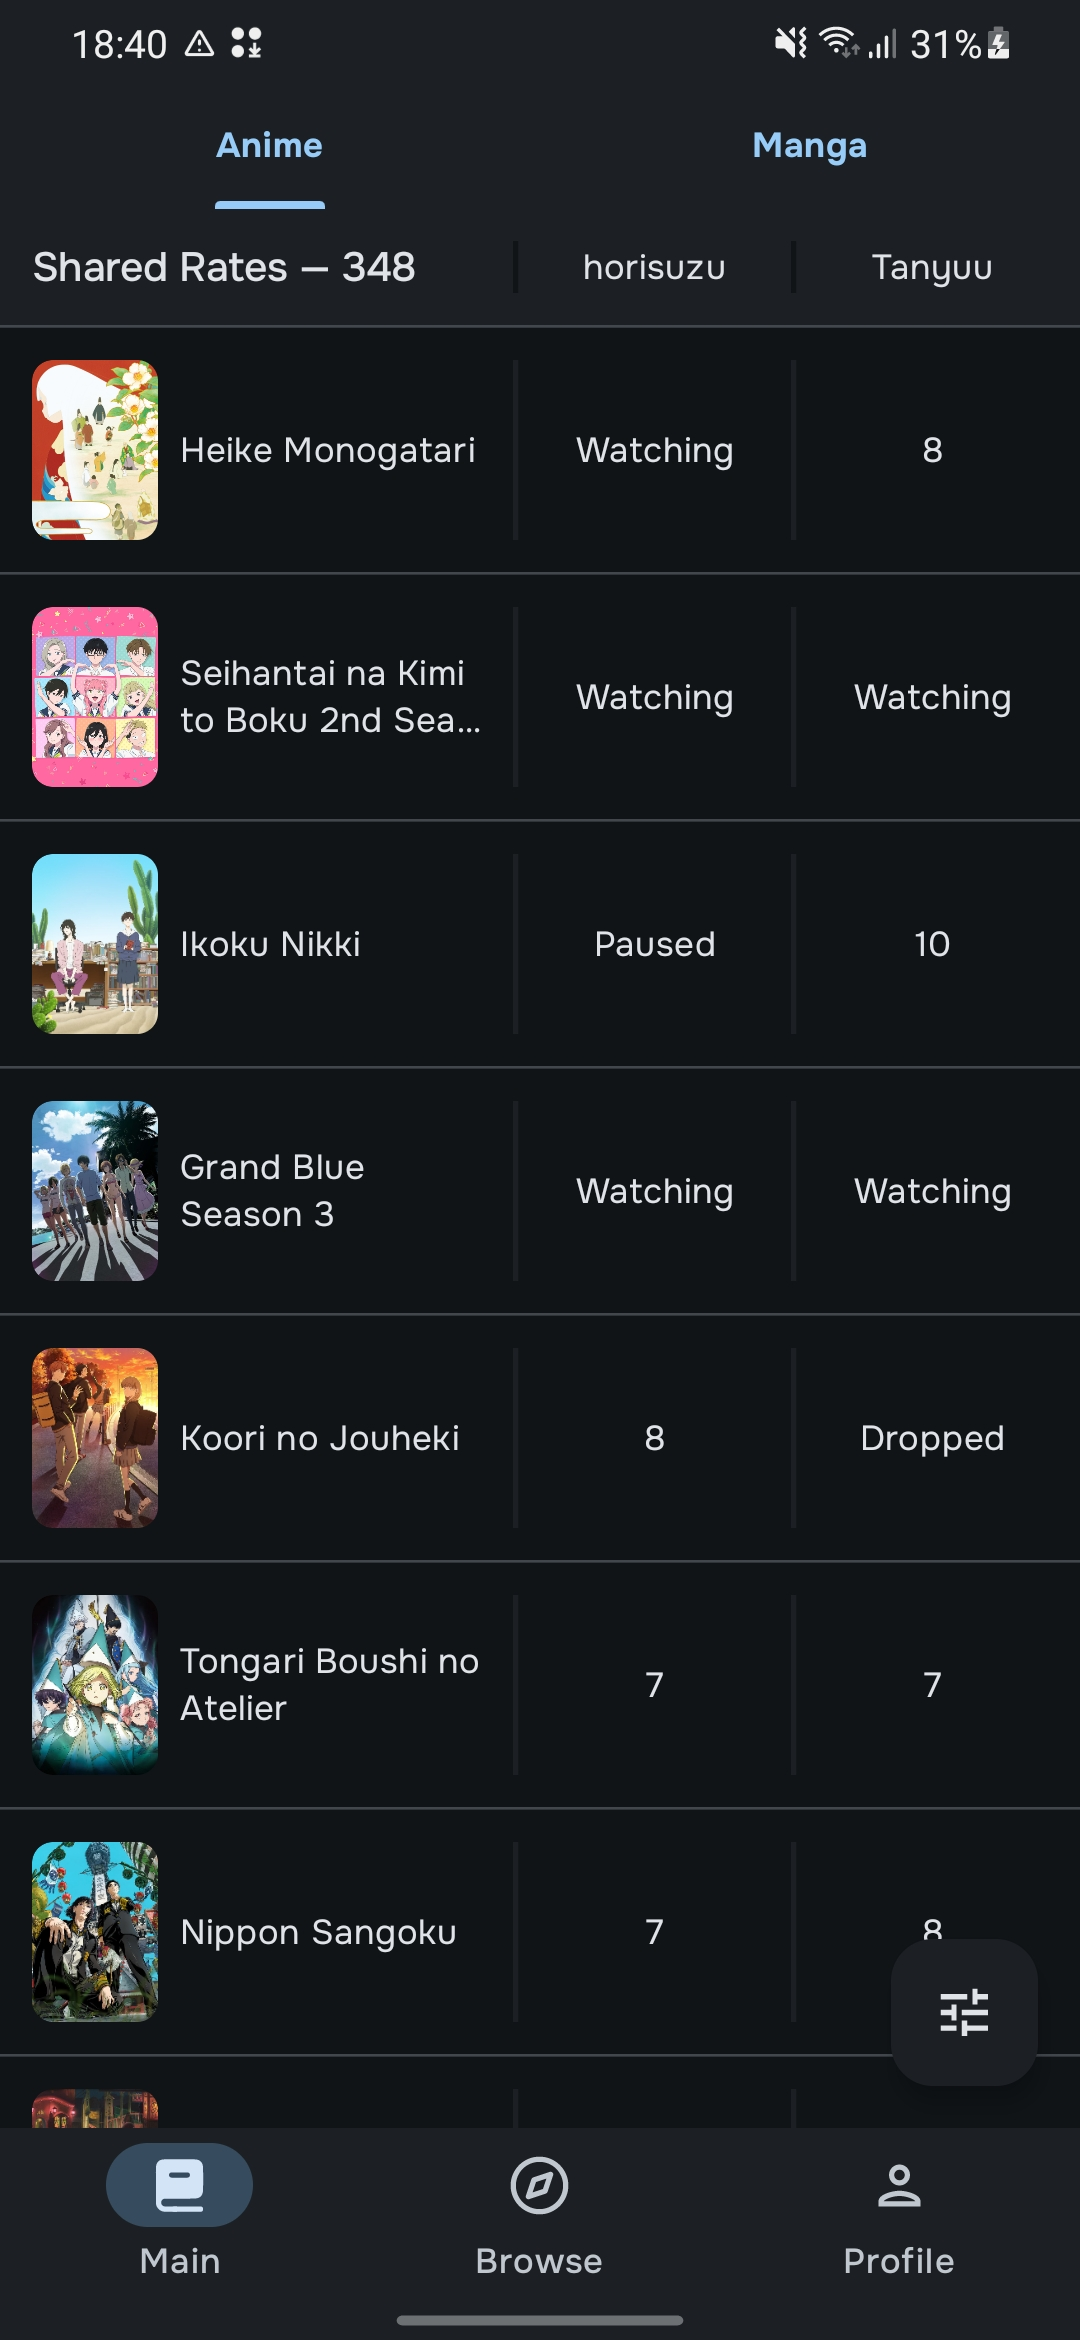
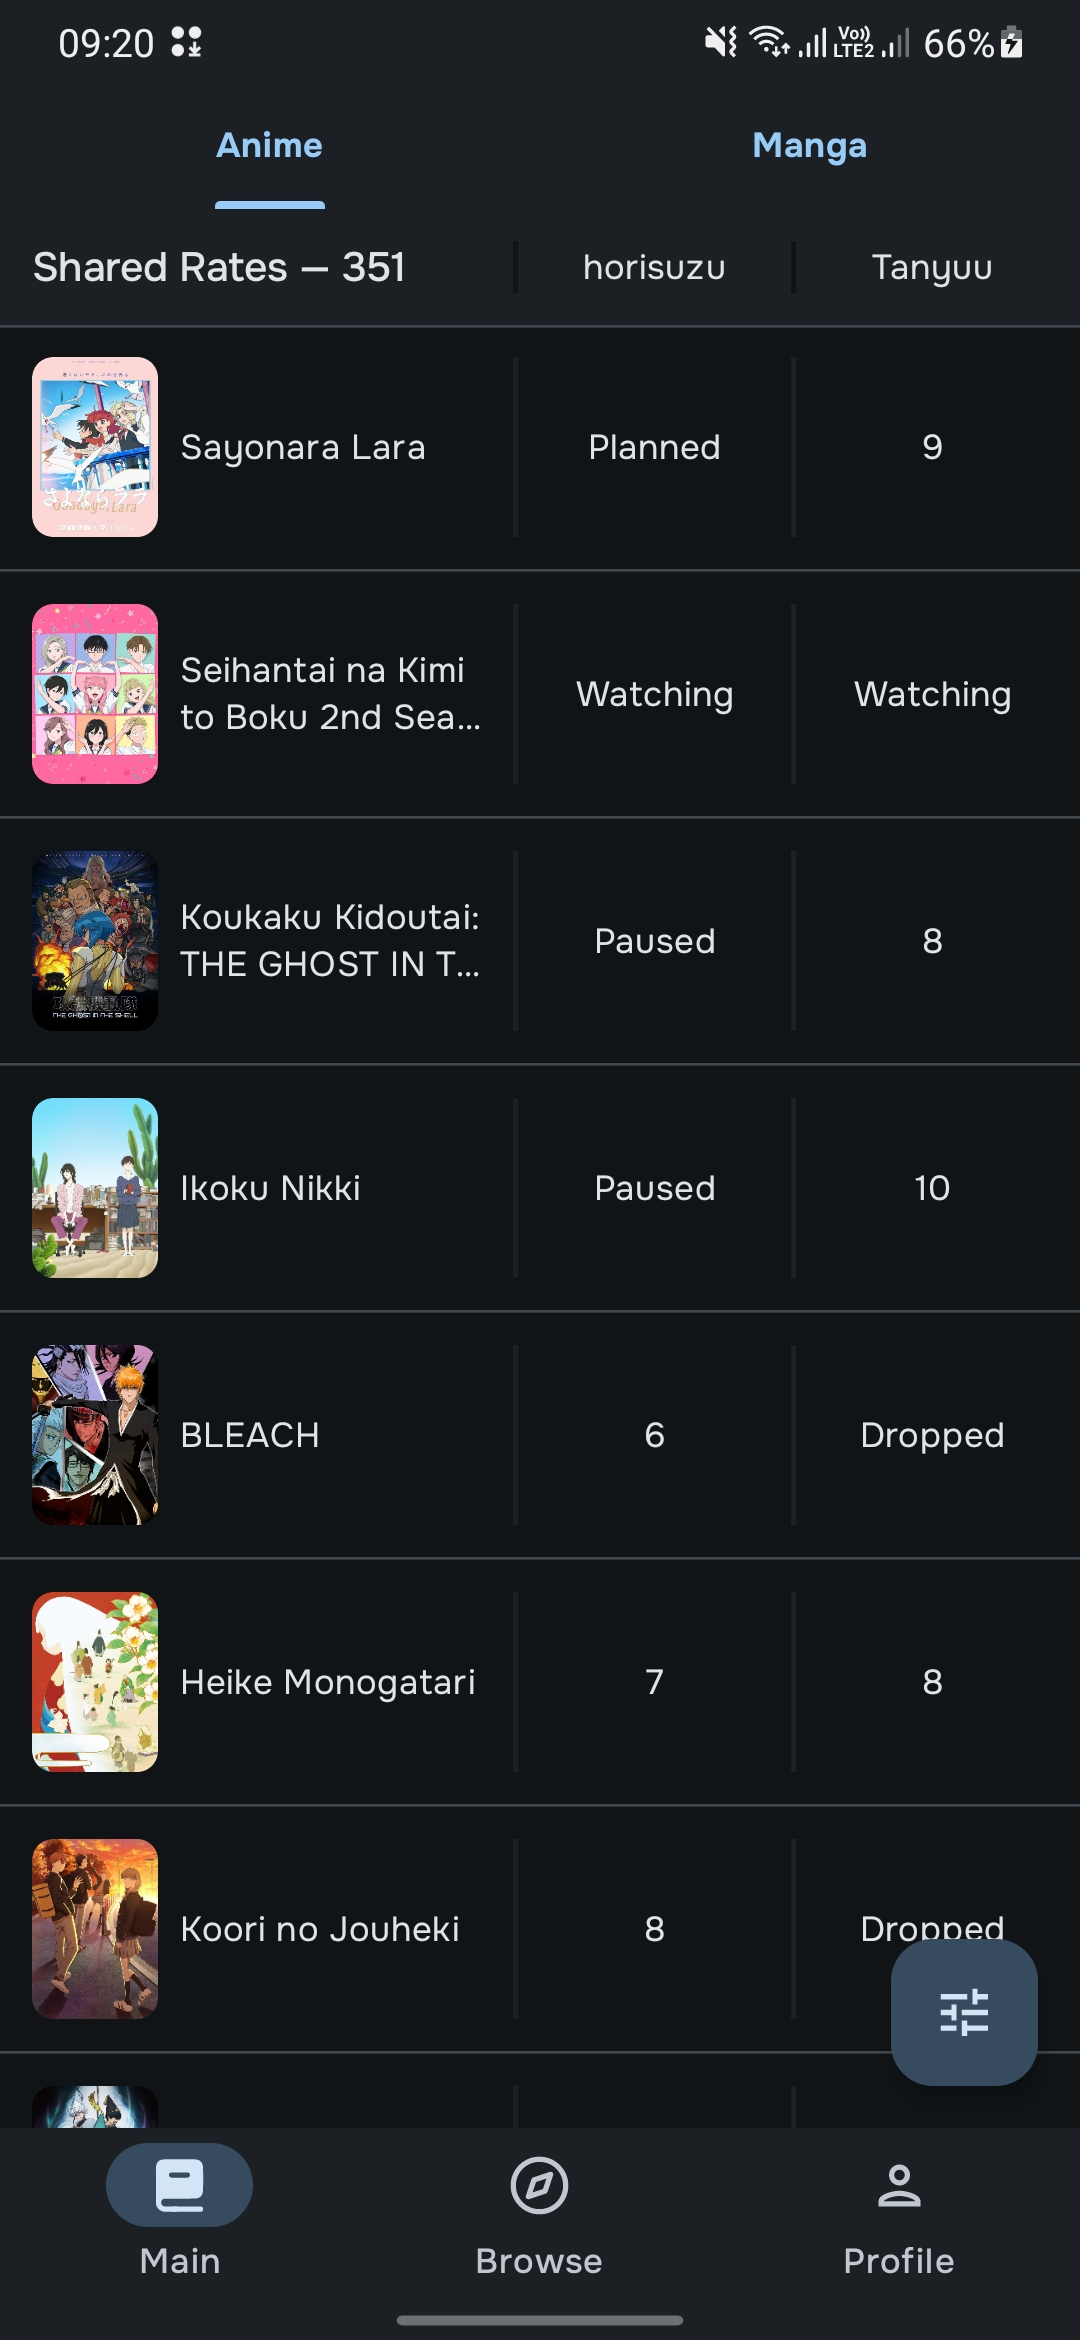
feat (media details): video/trailer section
- added video/trailer section in AnimeDetailsScreen
- airing notification handler adjustments

diff --git a/app/src/main/java/com/example/shikiflow/presentation/screen/main/details/anime/video/VideoSection.kt b/app/src/main/java/com/example/shikiflow/presentation/screen/main/details/anime/video/VideoSection.kt
@@ -1,0 +1,95 @@
+package com.example.shikiflow.presentation.screen.main.details.anime.video
+
+import androidx.compose.animation.animateContentSize
+import androidx.compose.foundation.clickable
+import androidx.compose.foundation.layout.Arrangement
+import androidx.compose.foundation.layout.Column
+import androidx.compose.foundation.layout.PaddingValues
+import androidx.compose.foundation.layout.fillMaxWidth
+import androidx.compose.foundation.layout.padding
+import androidx.compose.foundation.layout.width
+import androidx.compose.foundation.lazy.items
+import androidx.compose.foundation.shape.RoundedCornerShape
+import androidx.compose.material3.MaterialTheme
+import androidx.compose.material3.Text
+import androidx.compose.runtime.Composable
+import androidx.compose.ui.Modifier
+import androidx.compose.ui.draw.clip
+import androidx.compose.ui.res.stringResource
+import androidx.compose.ui.text.style.TextOverflow
+import androidx.compose.ui.unit.Dp
+import androidx.compose.ui.unit.dp
+import com.example.shikiflow.R
+import com.example.shikiflow.domain.model.media_details.VideoShort
+import com.example.shikiflow.presentation.common.SnapFlingLazyRow
+import com.example.shikiflow.presentation.common.TextWithDivider
+import com.example.shikiflow.presentation.common.ignoreHorizontalParentPadding
+import com.example.shikiflow.presentation.common.image.BaseImage
+import com.example.shikiflow.presentation.common.image.ImageType
+
+@Composable
+fun VideoSection(
+    videos: List<VideoShort>,
+    onVideoClick: (String) -> Unit,
+    horizontalPadding: Dp,
+    modifier: Modifier = Modifier
+) {
+    Column(
+        modifier = modifier,
+        verticalArrangement = Arrangement.spacedBy(8.dp)
+    ) {
+        TextWithDivider(
+            text = stringResource(R.string.anime_details_video)
+        )
+
+        SnapFlingLazyRow(
+            modifier = Modifier
+                .ignoreHorizontalParentPadding(horizontalPadding)
+                .fillMaxWidth()
+                .animateContentSize(),
+            horizontalArrangement = Arrangement.spacedBy(12.dp),
+            contentPadding = PaddingValues(horizontal = horizontalPadding)
+        ) {
+            items(videos) { video ->
+                VideoItem(
+                    title = video.title,
+                    thumbnailUrl = video.thumbnailUrl,
+                    onVideoClick = { onVideoClick(video.url) }
+                )
+            }
+        }
+    }
+}
+
+@Composable
+private fun VideoItem(
+    title: String?,
+    thumbnailUrl: String,
+    onVideoClick: () -> Unit,
+    modifier: Modifier = Modifier
+) {
+    val imageType = ImageType.Screenshot(shape = RoundedCornerShape(16.dp))
+
+    Column(
+        modifier = modifier
+            .clip(imageType.shape)
+            .clickable { onVideoClick() }
+    ) {
+        BaseImage(
+            model = thumbnailUrl,
+            imageType = imageType
+        )
+
+        title?.let {
+            Text(
+                text = title,
+                style = MaterialTheme.typography.bodySmall,
+                maxLines = 2,
+                overflow = TextOverflow.Ellipsis,
+                modifier = Modifier
+                    .width(imageType.width)
+                    .padding(horizontal = 6.dp, vertical = 4.dp)
+            )
+        }
+    }
+}

diff --git a/app/src/main/java/com/example/shikiflow/presentation/screen/main/details/anime/AnimeDetailsContent.kt b/app/src/main/java/com/example/shikiflow/presentation/screen/main/details/anime/AnimeDetailsContent.kt
@@ -30,6 +30,7 @@ import androidx.compose.runtime.setValue
 import androidx.compose.ui.Alignment
 import androidx.compose.ui.Modifier
 import androidx.compose.ui.draw.clip
+import androidx.compose.ui.platform.LocalContext
 import androidx.compose.ui.res.stringResource
 import androidx.compose.ui.unit.dp
 import com.example.shikiflow.R
@@ -66,7 +67,9 @@ import com.example.shikiflow.presentation.common.ignoreHorizontalParentPadding
 import com.example.shikiflow.presentation.common.image.ImageType
 import com.example.shikiflow.presentation.common.mappers.GenreMapper.displayValue
 import com.example.shikiflow.presentation.screen.main.LocalTitleTypeController
+import com.example.shikiflow.presentation.screen.main.details.anime.video.VideoSection
 import com.example.shikiflow.presentation.screen.main.details.common.MediaTagItem
+import com.example.shikiflow.utils.WebIntent
 
 @Composable
 fun AnimeDetailsContent(
@@ -92,6 +95,7 @@ fun AnimeDetailsContent(
 
     val horizontalPadding = 12.dp
     val titleType = LocalTitleTypeController.current
+    val context = LocalContext.current
 
     LazyColumn(
         modifier = modifier,
@@ -187,6 +191,7 @@ fun AnimeDetailsContent(
                 }
             }
         }
+
         if(animeDetails.characters.entries.isNotEmpty()) {
             item {
                 val clipPercent = 16
@@ -290,6 +295,19 @@ fun AnimeDetailsContent(
                     selectedIndex = selectedScreenshotIndex,
                     onScreenshotClick = onScreenshotClick,
                     sharedTransitionScope = sharedTransitionScope,
+                    modifier = Modifier.fillMaxWidth()
+                )
+            }
+        }
+
+        if (animeDetails.videos.isNotEmpty()) {
+            item {
+                VideoSection(
+                    videos = animeDetails.videos,
+                    onVideoClick = { url ->
+                        WebIntent.openUrlCustomTab(context, url)
+                    },
+                    horizontalPadding = horizontalPadding,
                     modifier = Modifier.fillMaxWidth()
                 )
             }

diff --git a/app/src/main/java/com/example/shikiflow/data/mapper/shikimori/ShikimoriMediaMapper.kt b/app/src/main/java/com/example/shikiflow/data/mapper/shikimori/ShikimoriMediaMapper.kt
@@ -7,6 +7,7 @@ import com.example.graphql.shikimori.MangaDetailsQuery
 import com.example.graphql.shikimori.type.AnimeKindEnum
 import com.example.graphql.shikimori.type.GenreKindEnum
 import com.example.graphql.shikimori.type.MangaKindEnum
+import com.example.graphql.shikimori.type.VideoKindEnum
 import com.example.shikiflow.BuildConfig
 import com.example.shikiflow.data.datasource.dto.ShikiAnime
 import com.example.shikiflow.data.datasource.dto.ShikiManga
@@ -21,6 +22,7 @@ import com.example.shikiflow.data.mapper.common.RatingMapper.toDomain
 import com.example.shikiflow.data.mapper.common.RelatedMediaMapper.toDomain
 import com.example.shikiflow.data.mapper.common.StudioMapper.toStudioShort
 import com.example.shikiflow.data.mapper.common.TagMapper
+import com.example.shikiflow.data.mapper.common.VideoMapper.toDomainVideo
 import com.example.shikiflow.data.mapper.shikimori.ShikimoriCharacterMapper.toDomain
 import com.example.shikiflow.data.mapper.shikimori.ShikimoriStaffMapper.sortByRole
 import com.example.shikiflow.data.mapper.shikimori.ShikimoriStaffMapper.toDomain
@@ -83,6 +85,13 @@ object ShikimoriMediaMapper {
             nextEpisodeAt = nextEpisodeAt?.let { Instant.parse(it.toString()) },
             origin = origin?.toDomain() ?: MediaOrigin.UNKNOWN,
             screenshots = screenshots.map { it.originalUrl },
+            videos = videos
+                .map { it.videoShort }
+                .filter { it.kind != VideoKindEnum.episode_preview }
+                .sortedBy { it.id }
+                .map { videoShort ->
+                    videoShort.toDomainVideo()
+                },
             studios = studios.map { it.toStudioShort() },
             staffList = personRoles?.map { it.personRoleShort.toDomain() }
                 ?.sortByRole() ?: emptyList(),

diff --git a/app/src/main/java/com/example/shikiflow/data/mapper/common/VideoMapper.kt b/app/src/main/java/com/example/shikiflow/data/mapper/common/VideoMapper.kt
@@ -1,0 +1,33 @@
+package com.example.shikiflow.data.mapper.common
+
+import com.example.graphql.anilist.fragment.ALVideoShort
+import com.example.shikiflow.domain.model.media_details.VideoShort as DomainVideo
+import com.example.graphql.shikimori.fragment.VideoShort
+
+object VideoMapper {
+    private const val YOUTUBE_VIDEO_URL = "https://www.youtube.com/watch?v="
+    private const val DAILY_MOTION_VIDEO_URL = "https://www.dailymotion.com/video/"
+
+    fun VideoShort.toDomainVideo(): DomainVideo {
+        return DomainVideo(
+            title = name,
+            url = url,
+            thumbnailUrl = if (!imageUrl.startsWith("https:")) "https:$imageUrl"
+                else imageUrl
+        )
+    }
+
+    fun ALVideoShort.toDomainVideo(): DomainVideo {
+        return DomainVideo(
+            title = null,
+            url = buildString {
+                when (site) {
+                    "youtube" -> append(YOUTUBE_VIDEO_URL)
+                    "dailymotion" -> append(DAILY_MOTION_VIDEO_URL)
+                }
+                append(id)
+            },
+            thumbnailUrl = thumbnail ?: ""
+        )
+    }
+}

diff --git a/app/src/main/java/com/example/shikiflow/presentation/screen/more/profile/ProfileAppBar.kt b/app/src/main/java/com/example/shikiflow/presentation/screen/more/profile/ProfileAppBar.kt
@@ -128,7 +128,7 @@ fun ProfileAppBar(
                             horizontalArrangement = Arrangement.spacedBy(4.dp, Alignment.End)
                         ) {
                             IconButton(
-                                shape = RoundedCornerShape(percent = 24),
+                                shape = RoundedCornerShape(percent = 32),
                                 onClick = { navOptions.navigateToSettings() },
                                 colors = IconButtonDefaults.iconButtonColors(
                                     containerColor = backgroundColor.copy(alpha = 0.35f)
@@ -141,7 +141,7 @@ fun ProfileAppBar(
                             }
 
                             IconButton(
-                                shape = RoundedCornerShape(percent = 24),
+                                shape = RoundedCornerShape(percent = 32),
                                 onClick = { navOptions.navigateToAbout() },
                                 colors = IconButtonDefaults.iconButtonColors(
                                     containerColor = backgroundColor.copy(alpha = 0.35f)

diff --git a/app/src/main/java/com/example/shikiflow/data/mapper/anilist/AnilistMediaMapper.kt b/app/src/main/java/com/example/shikiflow/data/mapper/anilist/AnilistMediaMapper.kt
@@ -21,6 +21,7 @@ import com.example.shikiflow.data.mapper.common.RelatedMediaMapper.toDomain
 import com.example.shikiflow.data.mapper.common.ScoreFormatMapper.toDomainFormat
 import com.example.shikiflow.data.mapper.common.StudioMapper.toStudioShort
 import com.example.shikiflow.data.mapper.common.TagMapper
+import com.example.shikiflow.data.mapper.common.VideoMapper.toDomainVideo
 import com.example.shikiflow.domain.model.anime.AiringAnime
 import com.example.shikiflow.domain.model.anime.AiringAnimeDataShort
 import com.example.shikiflow.domain.model.browse.BrowseMedia
@@ -83,6 +84,7 @@ object AnilistMediaMapper {
                 Instant.fromEpochSeconds(it.aLAiringEpisodeShort.airingAt.toLong())
             },
             origin = source?.toDomain() ?: MediaOrigin.UNKNOWN,
+            videos = listOfNotNull(trailer?.aLVideoShort?.toDomainVideo()),
             studios = studios?.nodes?.mapNotNull { it?.aLStudioShort?.toStudioShort() } ?: emptyList(),
             staffList = staff?.edges?.mapNotNull { staffEdge ->
                 staffEdge?.aLStaffEdgeShort?.toDomain()

diff --git a/app/src/main/java/com/example/shikiflow/presentation/screen/more/settings/SettingsSection.kt b/app/src/main/java/com/example/shikiflow/presentation/screen/more/settings/SettingsSection.kt
@@ -141,6 +141,7 @@ fun SettingsSection(
                             value = item.value,
                             trackRange = item.trackRange,
                             onChange = item.onChange,
+                            onChangeFinished = item.onChangeFinished,
                             modifier = itemModifier
                         )
                     }
@@ -324,6 +325,7 @@ private fun SliderItem(
     value: Float,
     trackRange: ClosedFloatingPointRange<Float>,
     onChange: (Float) -> Unit,
+    onChangeFinished: (() -> Unit)?,
     modifier: Modifier = Modifier
 ) {
     val sliderState = rememberSliderState(
@@ -382,6 +384,7 @@ private fun SliderItem(
             onValueChange = { newValue ->
                 sliderState.value = newValue
             },
+            onValueChangeFinished = onChangeFinished,
             track = { state ->
                 SliderDefaults.Track(
                     sliderState = state,

diff --git a/app/src/main/java/com/example/shikiflow/presentation/screen/main/details/anime/watch/player/PlayerBottomComponent.kt b/app/src/main/java/com/example/shikiflow/presentation/screen/main/details/anime/watch/player/PlayerBottomComponent.kt
@@ -15,7 +15,6 @@ import androidx.compose.foundation.layout.height
 import androidx.compose.foundation.layout.offset
 import androidx.compose.foundation.layout.padding
 import androidx.compose.foundation.layout.size
-import androidx.compose.foundation.shape.CircleShape
 import androidx.compose.foundation.shape.RoundedCornerShape
 import androidx.compose.material3.ExperimentalMaterial3Api
 import androidx.compose.material3.Icon
@@ -75,7 +74,8 @@ fun PlayerBottomComponent(
             exit = fadeOut()
         ) {
             Row(
-                modifier = Modifier.clip(CircleShape)
+                modifier = Modifier
+                    .clip(RoundedCornerShape(percent = 32))
                     .background(colorResource(R.color.blue))
                     .clickable {
                         opTimeCode?.let { timeRange ->

diff --git a/app/src/main/java/com/example/shikiflow/worker/notification/AiringNotificationHandler.kt b/app/src/main/java/com/example/shikiflow/worker/notification/AiringNotificationHandler.kt
@@ -59,7 +59,6 @@ class AiringNotificationHandler @Inject constructor(
 
         Log.d("AiringNotificationHandler", "Airing Media: $airingMedia")
 
-        val now = Clock.System.now()
         val airingDelayMs = settingsRepository.notificationSettingsFlow
             .map { notificationSettings -> notificationSettings.airingDelay }
             .first()
@@ -67,7 +66,7 @@ class AiringNotificationHandler @Inject constructor(
 
         airingMedia.forEach { media ->
             val episode = media.currentProgress?.plus(1) ?: 1
-            val delayMs = media.nextEpisodeAt!!.minus(now)
+            val delayMs = media.nextEpisodeAt!!.minus(Clock.System.now())
                 .inWholeMilliseconds
                 .coerceAtLeast(0L) + airingDelayMs
 

diff --git a/app/src/main/java/com/example/shikiflow/presentation/viewmodel/settings/SettingsViewModel.kt b/app/src/main/java/com/example/shikiflow/presentation/viewmodel/settings/SettingsViewModel.kt
@@ -93,7 +93,7 @@ class SettingsViewModel @Inject constructor(
     }
 
     fun syncTracks(userId: Int) {
-        mediaTracksScheduler.scheduleOneTimeSync(userId, applyDelay = false)
+        mediaTracksScheduler.scheduleSyncs(userId, applyDelay = false)
     }
 
     fun getAuthorizationUrl(authType: AuthType): String {
@@ -233,6 +233,10 @@ class SettingsViewModel @Inject constructor(
         viewModelScope.launch {
             settingsRepository.saveAiringDelay(newValue)
         }
+    }
+
+    fun rescheduleNotificationWork() {
+        notificationScheduler.schedulePeriodicWork()
     }
 
     fun setDataSaver(isEnabled: Boolean) {

diff --git a/app/src/main/java/com/example/shikiflow/worker/track/MediaTracksScheduler.kt b/app/src/main/java/com/example/shikiflow/worker/track/MediaTracksScheduler.kt
@@ -81,13 +81,13 @@ class MediaTracksScheduler @Inject constructor(
 
         workManager.enqueueUniquePeriodicWork(
             uniqueWorkName = PERIODIC_WORK_NAME,
-            existingPeriodicWorkPolicy = ExistingPeriodicWorkPolicy.KEEP,
+            existingPeriodicWorkPolicy = ExistingPeriodicWorkPolicy.REPLACE,
             request = mediaTracksRequest
         )
     }
 
-    fun scheduleSyncs(userId: Int) {
-        scheduleOneTimeSync(userId)
+    fun scheduleSyncs(userId: Int, applyDelay: Boolean = true) {
+        scheduleOneTimeSync(userId, applyDelay)
         schedulePeriodicSync(userId)
     }
 

diff --git a/app/src/main/java/com/example/shikiflow/presentation/screen/more/settings/SettingsScreen.kt b/app/src/main/java/com/example/shikiflow/presentation/screen/more/settings/SettingsScreen.kt
@@ -405,6 +405,7 @@ fun SettingsScreen(
                             onChange = { newValue ->
                                 settingsViewModel.setAiringDelay(newValue)
                             },
+                            onChangeFinished = { settingsViewModel.rescheduleNotificationWork() },
                             isVisible = settingsState.notificationSettings.showNotifications &&
                                 settingsState.notificationSettings.showAiringNotifications
                         )
